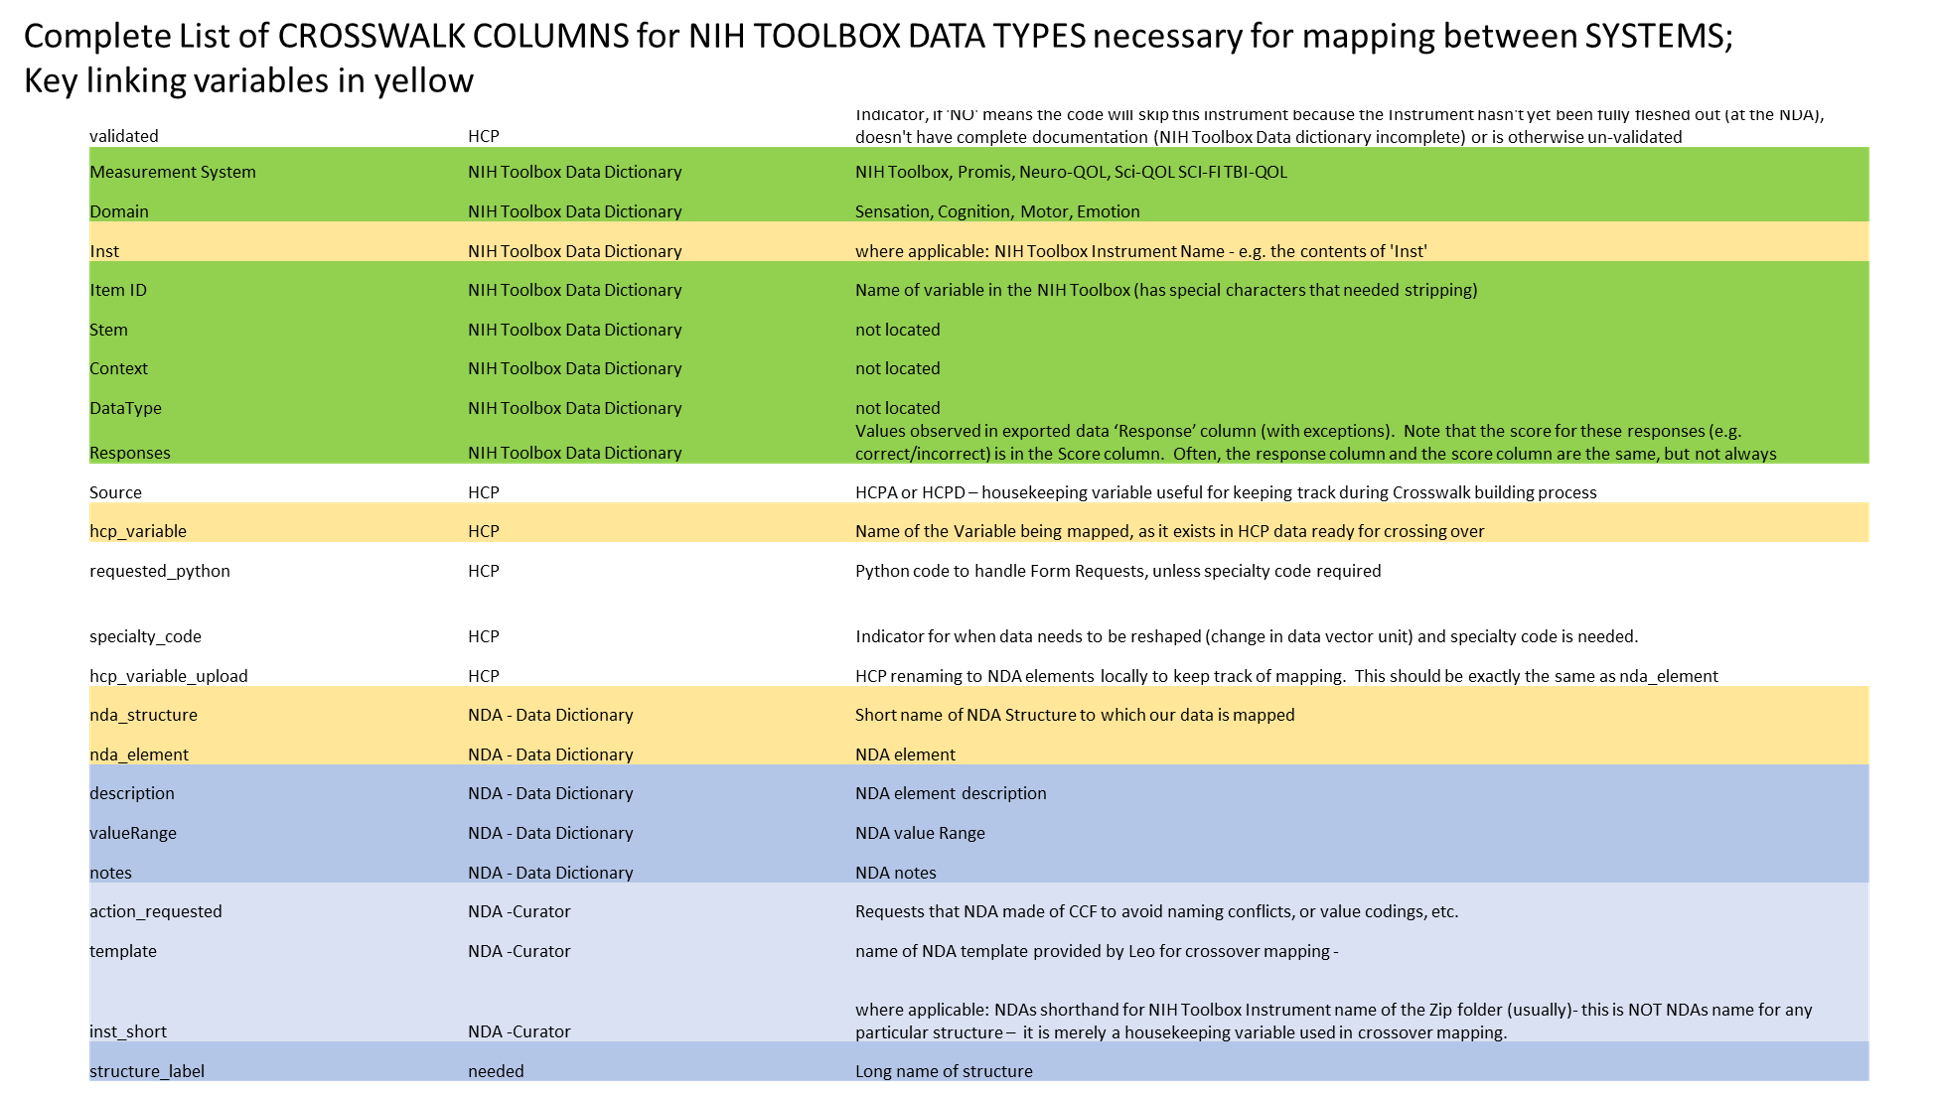
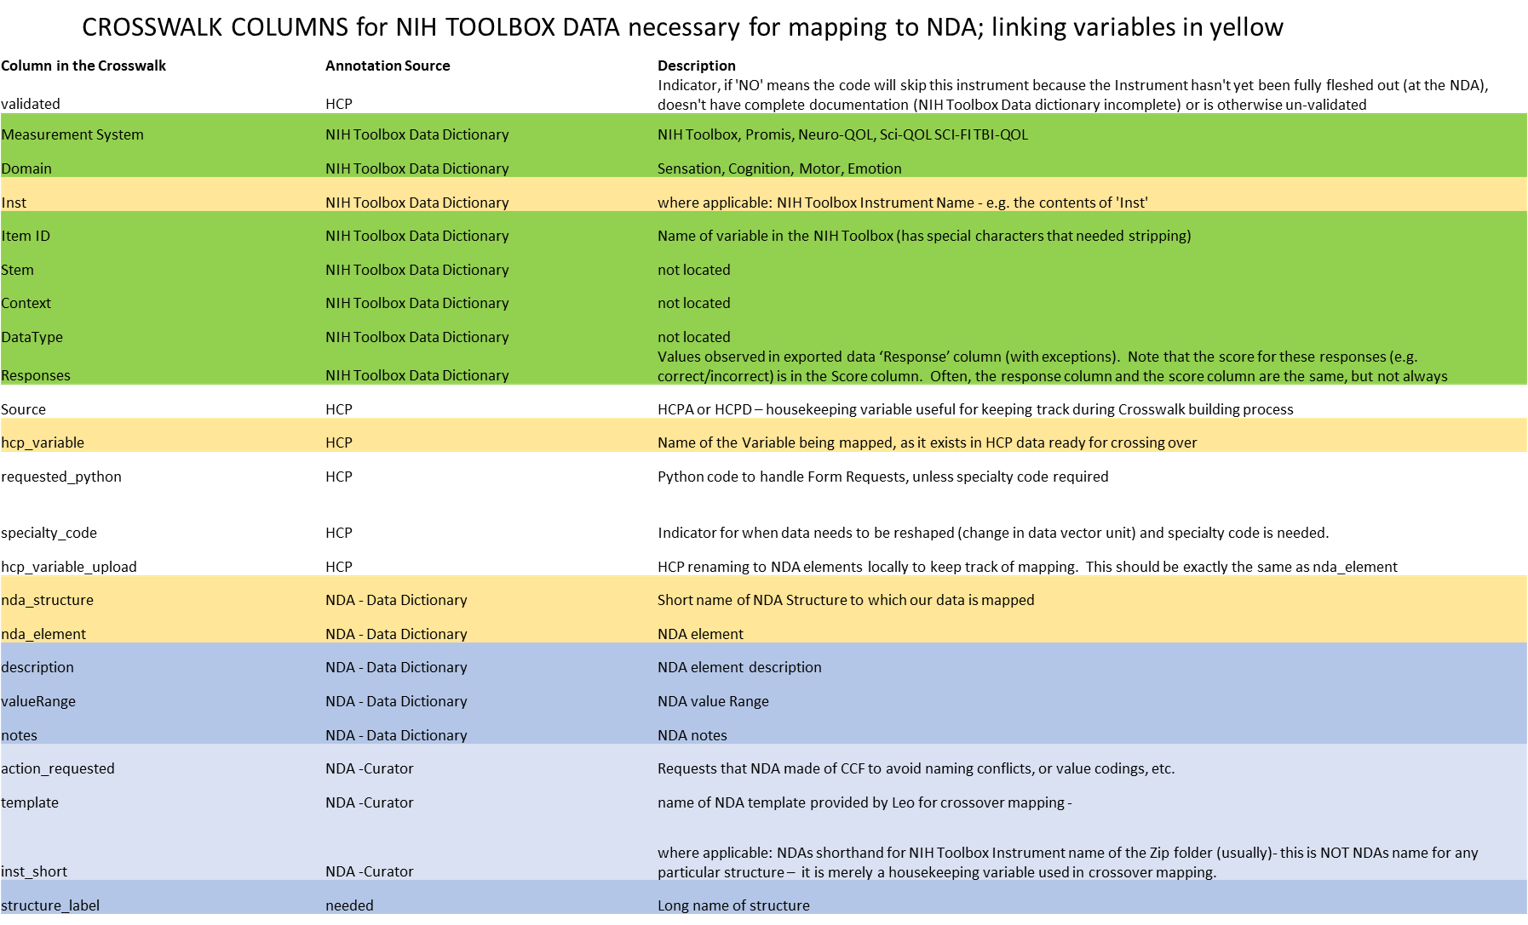
cleaner documentation

Changed region(s): [[0.0, 0.0, 1.0, 0.5449], [0.0, 0.5751, 1.0, 0.9989], [0.2153, 0.9384, 0.3076, 0.9989]]

diff --git a/README.md b/README.md
@@ -20,9 +20,9 @@ With one exception [see cogcomp01 discussion inline], the resulting structures a
 
 Order of operations:
 
-0.   If this is your very first behavioral data subission to the NDA, begin with their documentation for a general overview (https://nda.nih.gov/contribute/contribute-data.html), then review the slides from the power point in this repository 
-!(Intro to NIH Toolbox Data as it pertains to harmonization with the NDA.pptx) 
-which describe NIH Toolox data specificially.  Then open the Crosswalk and review the column definitions (Crosswalk_Columns.csv), so you have a general sense of the information it contains and what the next steps will be attempting to accomplish. Note that some of the necessary parts may not make sense until you get ALL THE WAY TO THE END and see what the data will look like when downloaded FROM the NDA (see prang01 example)
+0.   If this is your very first behavioral data submission to the NDA, begin with their documentation for a general overview (https://nda.nih.gov/contribute/contribute-data.html), then review the slides from the power point in this repository (Intro to NIH Toolbox Data as it pertains to harmonization with the NDA.pptx), which describe NIH Toolbox data harmonization specifically.  Then open the Crosswalk and review the column definitions in the image below, so you have a general sense of the information it contains and what the next steps will be attempting to accomplish. Note that some of the necessary parts may not make sense until you get ALL THE WAY TO THE END and see what the data will look like when downloaded FROM the NDA (see prang01 example)
+
+![Crosswalk Columns](CrosswalkColumns.png)
 
 1.  Concatenate all the scores files you received from the IPADS.  Concatenate all the raw data (item level) files you received from the IPADs. Check that the unique PINS in the concantenated scores file matches the list of unique pins in the concatenated raw data files.  The logic of this entire transformation depends on having a one to one matching of PINs in these files.  
 
